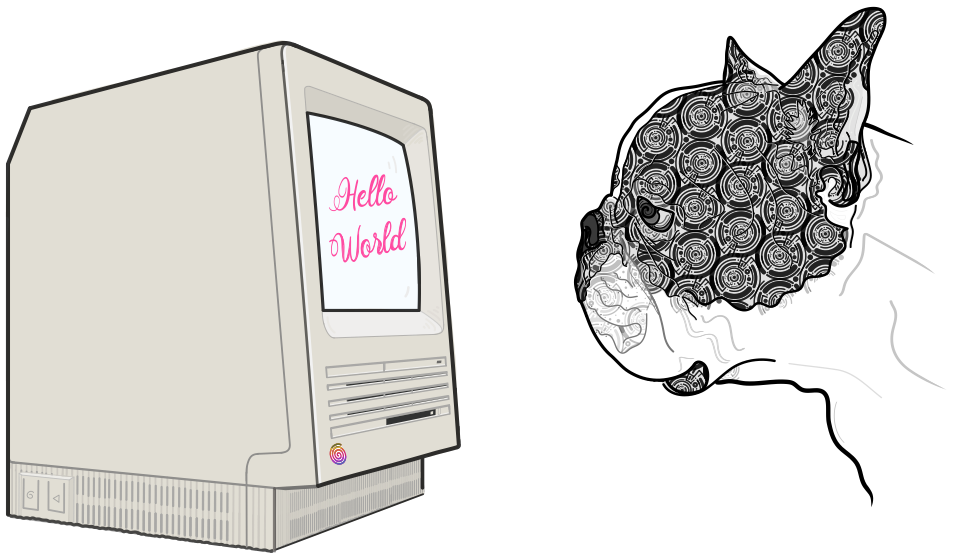
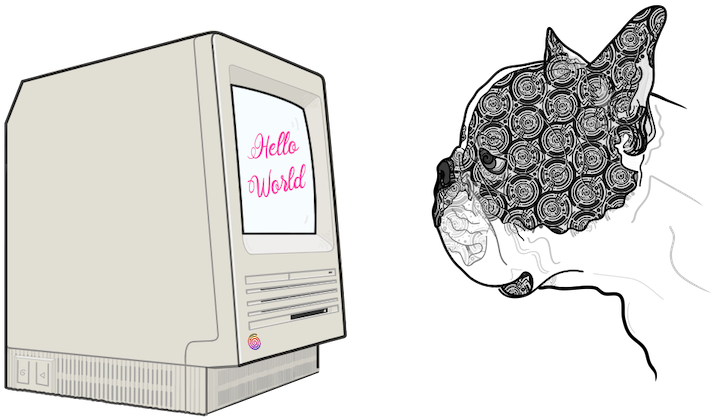
resized assets, edited buhi page

diff --git a/buhiStyles/styles.css b/buhiStyles/styles.css
@@ -271,16 +271,18 @@ body {
 ul {
   display: -ms-grid;
   display: grid;
-  -ms-grid-columns: (minmax(51vmin, 1fr))[auto-fill];
-      grid-template-columns: repeat(auto-fill, minmax(51vmin, 1fr));
-  justify-items: center;
+  -ms-grid-columns: (minmax(770px, 1fr))[auto-fill];
+      grid-template-columns: repeat(auto-fill, minmax(770px, 1fr));
+  -webkit-box-align: center;
+      -ms-flex-align: center;
+          align-items: center;
   gap: 5px;
 }
 
 li {
   min-height: 50vmin;
   width: 100%;
-  background: url(../musicAssets/blkPaper.jpg);
+  background: url("./buhiAssets/blkPaper.jpg");
   background-size: cover;
   position: relative;
 }
@@ -297,9 +299,14 @@ li img {
   padding-bottom: 100%;
 }
 
+.description {
+  padding-bottom: 100%;
+  height: 0;
+}
+
 h1 {
   color: white;
-  font-size: 80px;
+  font-size: 8vw;
   width: 0px;
   margin: 0 auto;
   font-family: 'Arial Narrow', serif, sans-serif;
@@ -309,24 +316,37 @@ h1 {
           animation: spin linear 20s;
   -webkit-animation-iteration-count: infinite;
           animation-iteration-count: infinite;
-  z-index: -1;
   padding: 20%;
+}
+
+.desc {
+  margin: auto;
+  width: 73%;
+  display: -webkit-box;
+  display: -ms-flexbox;
+  display: flex;
+  -webkit-box-orient: vertical;
+  -webkit-box-direction: normal;
+      -ms-flex-direction: column;
+          flex-direction: column;
+  -webkit-box-pack: space-evenly;
+      -ms-flex-pack: space-evenly;
+          justify-content: space-evenly;
+  height: 100%;
+  position: absolute;
+  left: 14.5%;
+  padding: 4% 0;
+  top: 0;
 }
 
 p {
   color: white;
   font-family: 'Barlow Condensed', 'Arial Narrow', Arial, sans-serif;
-  font-size: 1.3vmax;
+  font-size: 1.3vw;
   line-height: 1.4;
-  -webkit-filter: drop-shadow(-2px 0px 1px #c637a9);
-          filter: drop-shadow(-2px 0px 1px #c637a9);
+  -webkit-filter: drop-shadow(2px -2px 0px #c637a9);
+          filter: drop-shadow(2px -2px 0px #c637a9);
   text-transform: uppercase;
-  position: relative;
-  padding-top: 3%;
-  margin: 0 auto;
-  top: 5%;
-  left: 0%;
-  width: 70%;
 }
 
 .over {
@@ -360,5 +380,39 @@ p {
   -webkit-transform: skew(30deg);
           transform: skew(30deg);
   text-align: right;
+}
+
+@media (max-width: 1440px) {
+  ul {
+    -ms-grid-columns: (minmax(477px, 1fr))[auto-fill];
+        grid-template-columns: repeat(auto-fill, minmax(477px, 1fr));
+  }
+  p {
+    font-size: 2vw;
+    -webkit-filter: drop-shadow(1px -1px 1px #c637a9);
+            filter: drop-shadow(1px -1px 1px #c637a9);
+  }
+}
+
+@media (max-width: 958px) {
+  ul {
+    -ms-grid-columns: (minmax(320px, 1fr))[auto-fill];
+        grid-template-columns: repeat(auto-fill, minmax(320px, 1fr));
+  }
+  p {
+    font-size: 2vw;
+  }
+}
+
+@media (max-width: 644px) {
+  .desc {
+    width: 76%;
+    left: 12%;
+  }
+  p {
+    font-size: 3.8vw;
+    -webkit-filter: drop-shadow(1px -1px 0px #c637a9);
+            filter: drop-shadow(1px -1px 0px #c637a9);
+  }
 }
 /*# sourceMappingURL=styles.css.map */

diff --git a/buhi-trax.html b/buhi-trax.html
@@ -1,0 +1,52 @@
+<!DOCTYPE html>
+<html lang="en">
+  <head>
+    <meta charset="UTF-8">
+    <meta name="viewport" content="width=device-width, initial-scale=1.0">
+    <link rel="stylesheet" href="buhiStyles/styles.css">
+    <script src="https://kit.fontawesome.com/cecc6c5222.js" crossorigin="anonymous"></script>
+    <link rel="preconnect" href="https://fonts.gstatic.com">
+    <link href="https://fonts.googleapis.com/css2?family=Barlow+Condensed&display=swap" rel="stylesheet"> 
+    <link rel="icon" type="image/png" href="./assets/me.png">
+    <title>BUHI TRAX</title>
+  </head>
+<body>
+
+  <ul>
+    <li class="title">
+      <h1>BUHI TRAX</h1>
+    </li>
+
+    <li class="description">
+      <div class="desc">
+        <p class="skewR">
+          BUHI trax is a long forgotten (but very real) record label that was dedicated to releasing music by a wide variety of unknown (also very real) artists.
+        </p>
+        <p class="skewL">
+          From its first release in 1996, B-T acted as a network for unconnected producers in and around toronto, a platform for isolated artists to release their work into the world.
+        </p>
+        <p class="skewR">
+          Today, the BUHI TRAX discography archives a unique moment and feeling in electronic music, offering a glimpse of a time and place when the dream of a future that would never come was still possible.
+        </p>
+      </div>
+    </li>
+
+    <li>
+      <img src="buhiStyles/buhiAssets/BH1A.png" alt="">
+      <p class="over">In 1996 a group of DJs and producers in Toronto, sharing a sense of alienation from the established electronic music scene in their city, combined their efforts and resources to do something on their own.      
+        
+        .</p>
+    </li>
+    <li><img src="buhiStyles/buhiAssets/BH1B.png" alt=""></li>
+    <li><img src="buhiStyles/buhiAssets/BH2A.png" alt=""></li>
+    <li><img src="buhiStyles/buhiAssets/BH2B.png" alt=""></li>
+    <li><img src="buhiStyles/buhiAssets/BH3A.png" alt=""></li>
+    <li><img src="buhiStyles/buhiAssets/BH4B.png" alt=""></li>
+    <li><img src="buhiStyles/buhiAssets/BH5A.png" alt=""></li>
+    <li><img src="buhiStyles/buhiAssets/BH5B.png" alt=""></li>
+    <li><iframe width="100%" height="100%" scrolling="no" frameborder="no" allow="autoplay" src="https://w.soundcloud.com/player/?url=https%3A//api.soundcloud.com/tracks/596083515&color=%234c5767&auto_play=true&hide_related=false&show_comments=true&show_user=true&show_reposts=false&show_teaser=true&visual=true"></iframe></li>
+  </ul>
+
+
+</body>
+</html>

diff --git a/buhiStyles/styles.scss b/buhiStyles/styles.scss
@@ -35,16 +35,16 @@ body {
 
 ul {
   display: grid;
-  grid-template-columns: repeat(auto-fill, minmax(51vmin, 1fr));
+  grid-template-columns: repeat(auto-fill, minmax(770px, 1fr));
   // grid-template-rows: repeat(auto-fill, minmax(55vmin, 1fr));
-  justify-items: center;
+  align-items: center;
   gap: 5px;
 }
 
 li {
   min-height: 50vmin;
   width: 100%;
-  background: url(../musicAssets/blkPaper.jpg);
+  background: url('./buhiAssets/blkPaper.jpg');
   background-size: cover;
   position: relative;
   img {
@@ -61,36 +61,43 @@ li {
   padding-bottom: 100%;
 }
 
+.description {
+  padding-bottom: 100%;
+  height: 0;
+}
+
 h1 {
   color: white;
-  font-size: 80px;
+  font-size: 8vw;
   width: 0px;
   margin: 0 auto;
   font-family: 'Arial Narrow', serif, sans-serif;
   filter: drop-shadow(-6px -7px 0px #c637a9);
   animation: spin linear 20s;
   animation-iteration-count: infinite;
-  z-index: -1;
   padding: 20%;
 }
 
-ul li:nth-child(2) {
-  // background: greenyellow;
+.desc {
+  margin: auto;
+  width: 73%;
+  display: flex;
+  flex-direction: column;
+  justify-content: space-evenly;
+  height: 100%;
+  position: absolute;
+  left: 14.5%;
+  padding: 4% 0;
+  top: 0;
 }
 
 p {
   color: white;
   font-family: 'Barlow Condensed', 'Arial Narrow', Arial, sans-serif;
-  font-size: 1.3vmax;
+  font-size: 1.3vw;
   line-height: 1.4;
-  filter: drop-shadow( -2px 0px 1px #c637a9);
-  text-transform: uppercase;
-  position: relative;
-  padding-top: 3%;
-  margin: 0 auto;
-  top: 5%;
-  left: 0%;
-  width: 70%;
+  filter: drop-shadow( 2px -2px 0px #c637a9);
+  text-transform: uppercase; 
 }
 
 .over {
@@ -111,6 +118,7 @@ p {
     opacity: 1;
   }
 }
+
 .skewR {
   transform: skew(-30deg);
   text-align: left;
@@ -120,6 +128,48 @@ p {
   transform: skew(30deg);
   text-align: right;
 }
+
 em {
   // text-decoration: underline;
 }
+
+
+
+
+@media(max-width: 1440px) {
+
+  ul {
+    grid-template-columns: repeat(auto-fill, minmax(477px, 1fr));
+  }
+
+  p {
+    font-size: 2vw;
+    filter: drop-shadow( 1px -1px 1px #c637a9);
+  }
+}
+
+@media(max-width: 958px) {
+
+  ul {
+    grid-template-columns: repeat(auto-fill, minmax(320px, 1fr));
+  }
+
+  p {
+    font-size: 2vw;
+  }
+}
+
+@media(max-width: 644px) {
+  .desc {
+    width: 76%;
+    left: 12%;
+  }
+  p {
+    font-size: 3.8vw;
+    filter: drop-shadow( 1px -1px 0px #c637a9);
+  }
+}
+
+// @media(max-width: 475px) {
+//   grid-template-columns: repeat(auto-fill, minmax(235px, 1fr));
+// }

diff --git a/academic.html b/academic.html
@@ -3,12 +3,12 @@
 <head>
   <meta charset="UTF-8">
   <meta name="viewport" content="width=device-width, initial-scale=1.0">
-  <link rel="stylesheet" href="AlternateStyles/styles.css">
+  <link rel="stylesheet" href="./academicStyles/styles.css">
   <script src="https://kit.fontawesome.com/cecc6c5222.js" crossorigin="anonymous"></script>
   <link href="https://fonts.googleapis.com/css2?family=Comfortaa:wght@600&family=Roboto+Mono:wght@300;400;700&display=swap"
   rel="stylesheet">
   <link rel="icon" type="image/png" href="./assets/me.png">
-  <title>Edward D Bacal</title>
+  <title>Edward D Bacal: Academic Work</title>
 </head>
 <body class="index">
   

diff --git a/index.html b/index.html
@@ -22,7 +22,7 @@
 
     <section class="landing" id="home">
       <div class="landingLeftColumn">      
-        <h1>Edward Bacal</h1>
+        <h1>Edward D Bacal: Web Design & Development</h1>
         <img src="./assets/me.png" class="myFace"
           alt="an illustration of Edward Bacal's face, slowly rotating in a circle" />
       </div>
